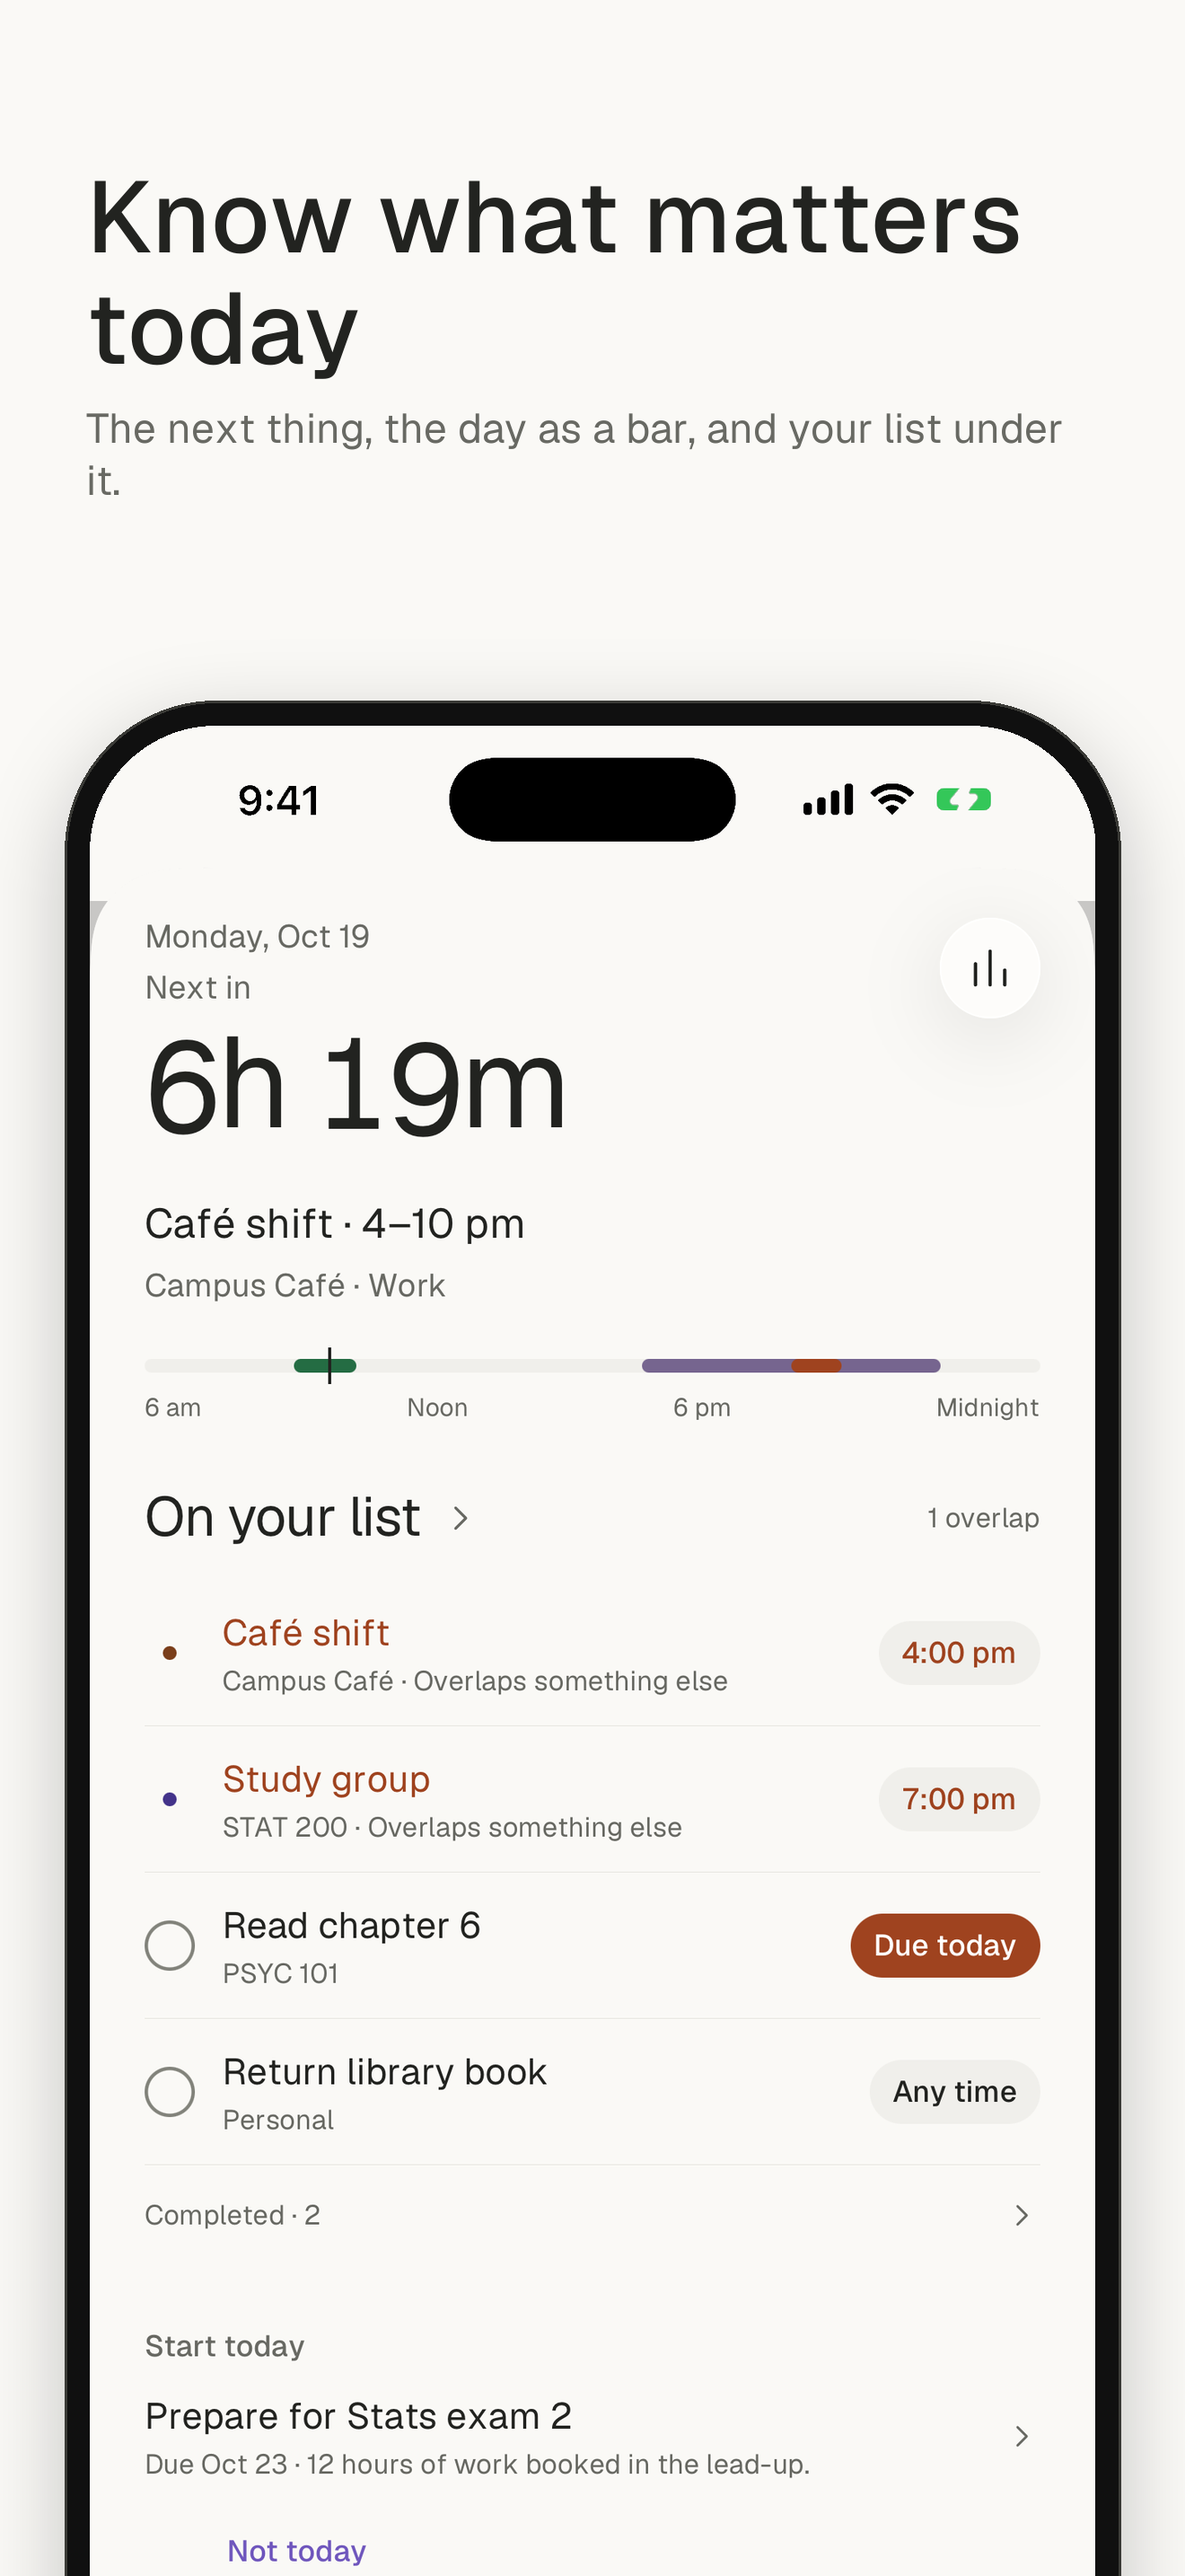
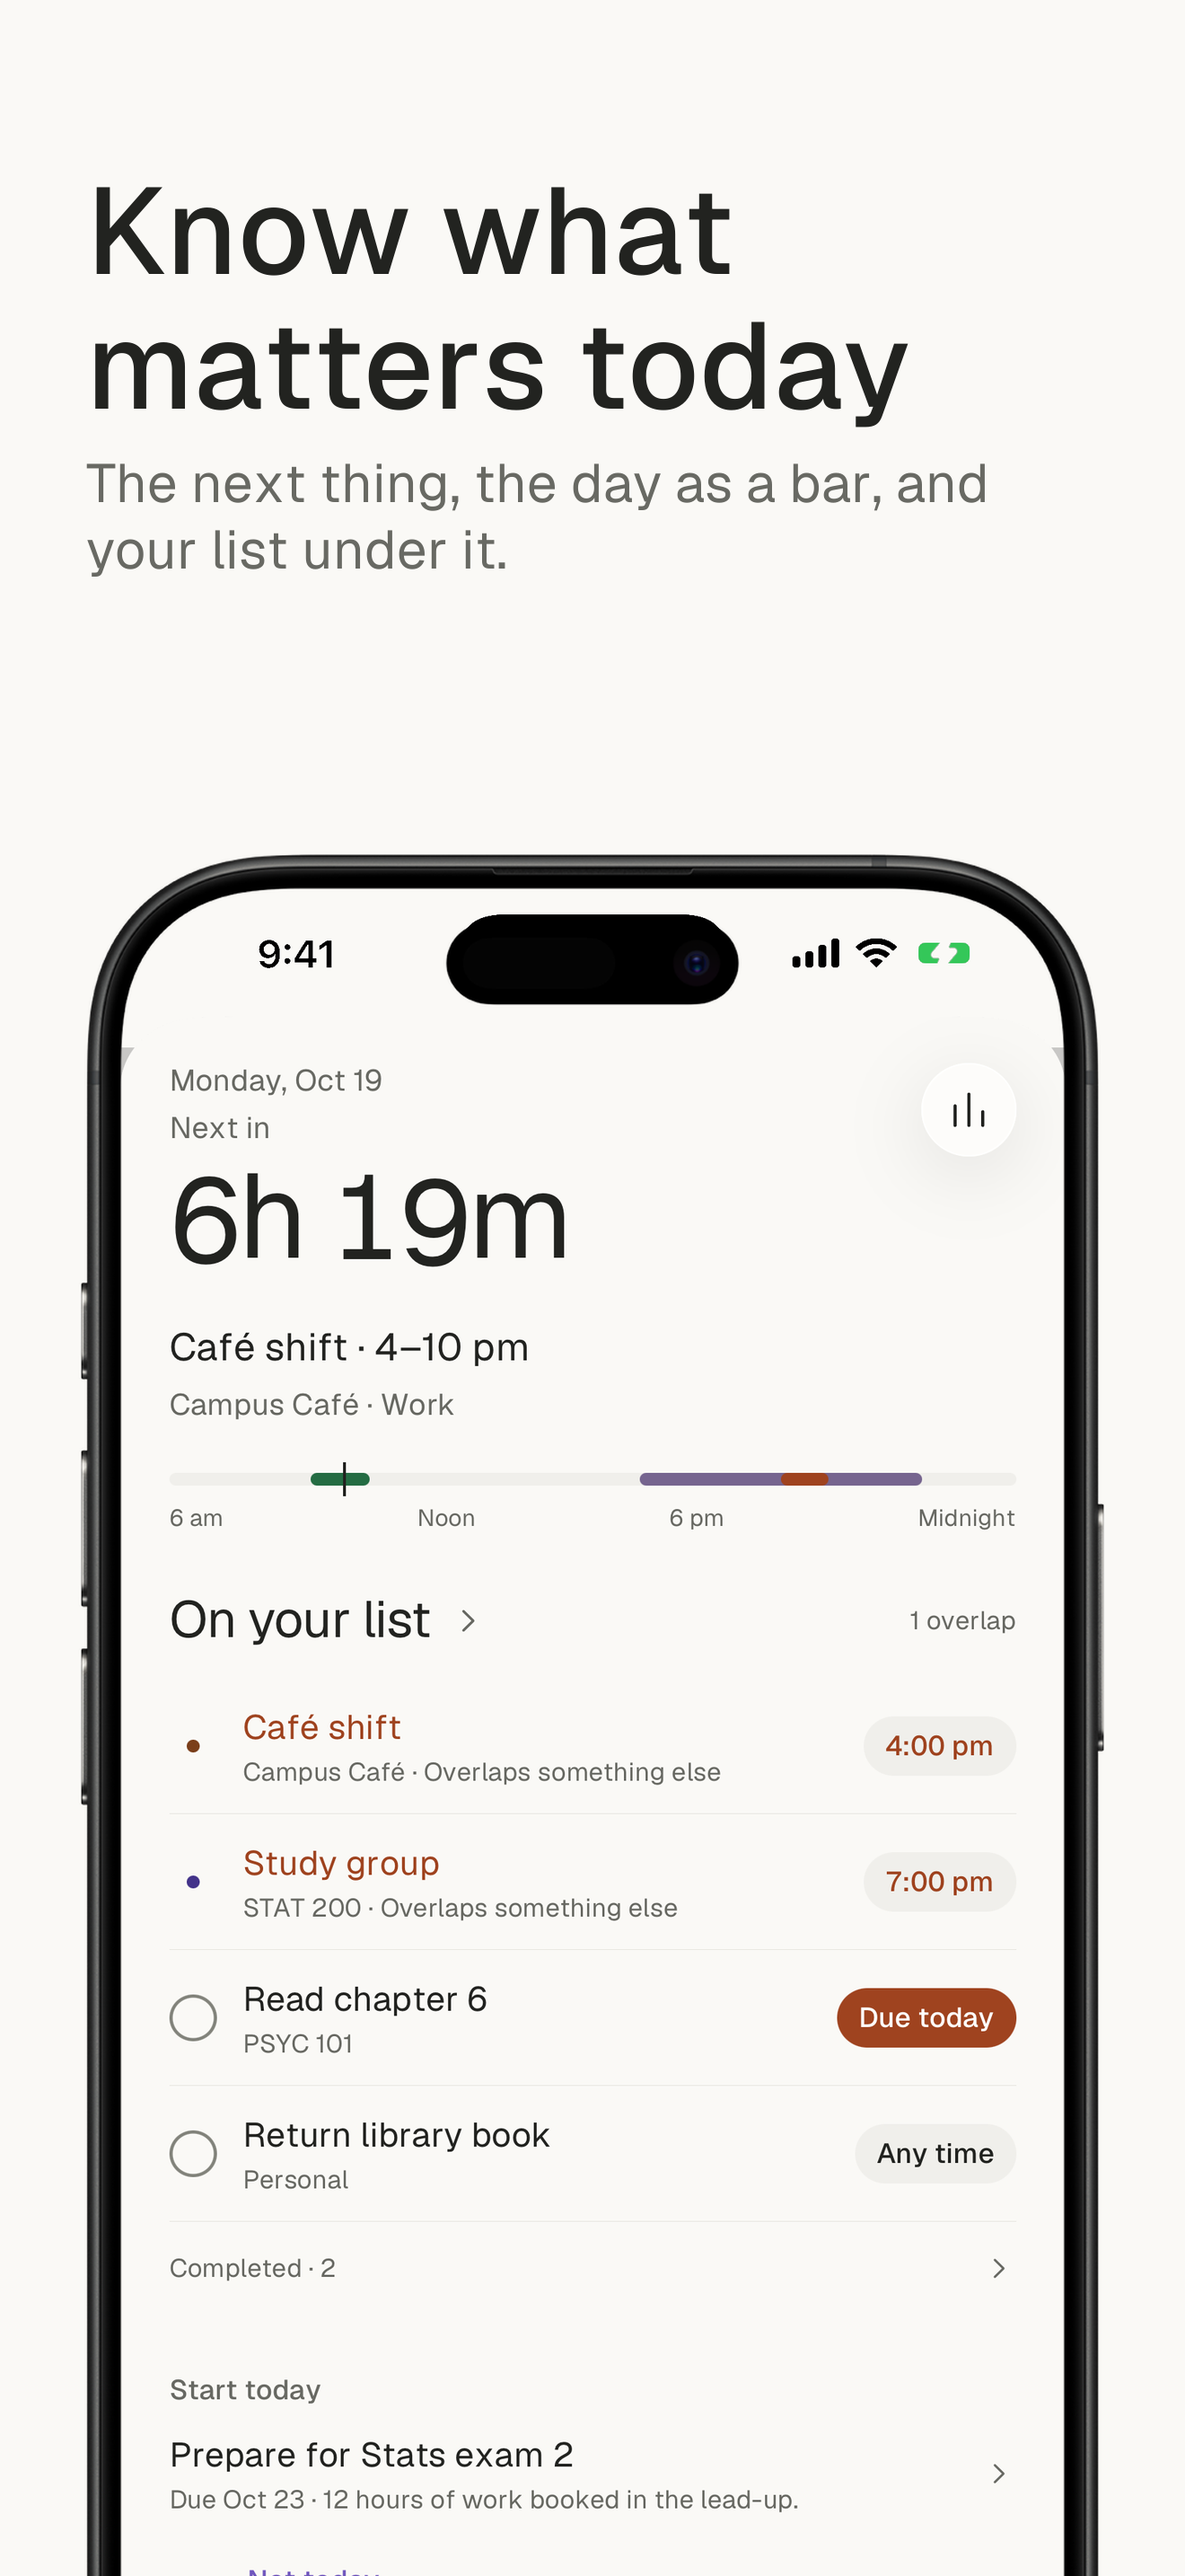
Refactor code structure for improved readability and maintainability

Changed region(s): [[0.0311, 0.2483, 0.9629, 1.0], [0.0621, 0.0621, 0.9008, 0.2172], [0.5591, 0.5275, 0.8076, 0.5896]]

diff --git a/design/render-screenshots.py b/design/render-screenshots.py
@@ -4,7 +4,7 @@
 Input: design/screenshots/raw/<name>.png, 1320 x 2868 captures from the iPhone 17 Pro Max
 simulator (dev build, light mode, 9:41 status bar; see docs/launch-guide.md, part 2).
 Output: design/screenshots/<nn>-<name>.png at 1320 x 2868, no alpha, ready for the
-6.9-inch slot. Caption in Geist Medium on paper, ink text, one device per image bleeding off
+6.9-inch slot. Caption in Geist Medium on paper, ink text, the site's iPhone frame bleeding off
 the bottom edge, as the best-selling planners do (Things, Structured, Opal).
 
     python3 design/render-screenshots.py                 # all, default layout
@@ -45,39 +45,39 @@ class Layout:
     bg: tuple[int, int, int]
     ink: tuple[int, int, int]
     secondary: tuple[int, int, int]
-    title_size: int = 112
-    title_lead: int = 124
+    title_size: int = 136
+    title_lead: int = 150
     title_weight: str = "Medium"
-    sub_size: int = 46
-    sub_lead: int = 58
+    sub_size: int = 60
+    sub_lead: int = 74
     margin: int = 96
     title_top: int = 168
-    device_top: int = 780  # fixed so the row lines up in the store
-    screen_w: int = 1120  # the phone bleeds off the bottom
+    device_top: int = 930  # fixed so the row lines up in the store
+    screen_w: int = 1176  # outer width of the phone; it bleeds off the bottom
     bezel: int = 28
     radius: int = 140
     shadow: int = 44
-    frame: bool = False  # True draws the site's photographic iPhone frame instead of the flat bezel
+    frame: bool = True  # the site's photographic iPhone frame; False draws a flat bezel instead
 
 
 LAYOUTS = {
     "left": Layout("left", "left", PAPER, INK, SECONDARY),
-    "center": Layout("center", "center", PAPER, INK, SECONDARY, title_size=120, title_lead=132),
-    "ink": Layout("ink", "center", INK, PAPER, DARK_SECONDARY, title_size=120, title_lead=132),
+    "center": Layout("center", "center", PAPER, INK, SECONDARY),
+    "ink": Layout("ink", "center", INK, PAPER, DARK_SECONDARY),
     "regular": Layout("regular", "left", PAPER, INK, SECONDARY, title_weight="Regular"),
-    "frame": Layout("frame", "left", PAPER, INK, SECONDARY, frame=True, screen_w=1176),
+    "bezel": Layout("bezel", "left", PAPER, INK, SECONDARY, frame=False, screen_w=1120),
 }
 
-# Order matters: the first three show in search results. Titles fit two lines at 112px.
+# Order matters: the first three show in search results. Titles fit two lines at 136px.
 SHOTS: list[tuple[str, str, str]] = [
-    ("school", "A semester set up in two minutes", "Drop in a syllabus. Semli reads every exam and due date."),
-    ("review-update", "Screenshot your shifts", "New, moved, and dropped shifts, shown before anything is saved."),
+    ("school", "A semester in two minutes", "Drop in a syllabus. Semli reads every exam and due date."),
+    ("review-update", "Screenshot your shifts", "New, moved, and dropped shifts, before anything is saved."),
     ("today-mon", "Know what matters today", "The next thing, the day as a bar, and your list under it."),
-    ("plan", "School, work, and life in one week", "Green is done, red is an overlap, a ring is an exam."),
-    ("review", "Nothing is saved until you confirm", "Missing a time? Add it or skip it. Undo is one tap away."),
-    ("paywall", "The planner stays free", "Calendar, to-dos, reminders, overlap warnings. Plus adds unlimited imports and Canvas sync."),
+    ("plan", "School and work in one week", "Green is done, red is an overlap, a ring is an exam."),
+    ("review", "Nothing saves until you say so", "Missing a time? Add it or skip it. Undo is one tap away."),
+    ("paywall", "The planner stays free", "Calendar, to-dos, and reminders stay free. Plus adds unlimited imports."),
     ("today-mon-hours", "Hour by hour", "Shifts, classes, and overlaps in red, on one timeline."),
-    ("add", "Type it or drop in a screenshot", "Semli reads work schedules, syllabi, and messages from class."),
+    ("add", "Type it or screenshot it", "Semli reads work schedules, syllabi, and messages from class."),
     ("item", "Every detail one tap away", "Time, course, reminder, and the overlap, with a way out."),
 ]
 
@@ -180,8 +180,8 @@ def fix_grey_band(capture: Image.Image) -> Image.Image:
 
 def render(name: str, title: str, sub: str, index: int, L: Layout, out_dir: Path, wordmark: bool) -> Path:
     capture = Image.open(RAW / f"{name}.png")
-    if capture.size != (W, H):
-        raise SystemExit(f"{name}.png is {capture.size}, expected {W}x{H} (iPhone 17 Pro Max simulator)")
+    if capture.size != (1320, 2868):
+        raise SystemExit(f"{name}.png is {capture.size}, expected 1320x2868 (iPhone 17 Pro Max simulator)")
     if name == "paywall":
         capture = fix_paywall_band(capture)
     if name == "today-mon":
@@ -223,8 +223,12 @@ def main() -> None:
     ap.add_argument("names", nargs="*", help="raw capture names to render (default: all)")
     ap.add_argument("--layout", choices=sorted(LAYOUTS), default="left")
     ap.add_argument("--out", type=Path, default=OUT)
+    ap.add_argument("--canvas", help="WIDTHxHEIGHT of the output, default 1320x2868 (6.9-inch); e.g. 2007x2853 for the foldable's inner display")
     args = ap.parse_args()
     L = LAYOUTS[args.layout]
+    if args.canvas:
+        global W, H
+        W, H = (int(v) for v in args.canvas.lower().split("x"))
     for i, (name, title, sub) in enumerate(SHOTS, start=1):
         if args.names and name not in args.names:
             continue

diff --git a/docs/launch-guide.md b/docs/launch-guide.md
@@ -87,8 +87,31 @@ Sanity check: a sandbox purchase in the dev build shows up in RevenueCat → Cus
 - 3 to 10 images; the **first three** show in search results, so they carry the message.
 - PNG or JPEG, no alpha, no status-bar fakery (Apple allows real status bars). Device frames and captions are allowed and expected.
 
-### 2.2 The six screenshots
-Superseded Oct 20, 2026 by [app-store-connect.md](app-store-connect.md), which has every App Store Connect field, the six captions, and the privacy labels as they stand with accounts and Canvas. Finished images are in `design/screenshots/out/`; `design/screenshots/compose.py` rebuilds them from raw 1320 × 2868 simulator captures (light mode, 9:41, `dev-clock.txt` set to `09:41`, `dev-command.txt` set to `sample`, `review` or `item`).
+### 2.2 The screenshots, in order
+Raw capture name, caption on the image (sentence case, Geist Medium 136px), and the 60px subline. The first three carry the message in search results.
+
+| # | Raw | Caption | Subline |
+|---|---|---|---|
+| 1 | `school` | A semester in two minutes | Drop in a syllabus. Semli reads every exam and due date. |
+| 2 | `review-update` | Screenshot your shifts | New, moved, and dropped shifts, before anything is saved. |
+| 3 | `today-mon` | Know what matters today | The next thing, the day as a bar, and your list under it. |
+| 4 | `plan` | School and work in one week | Green is done, red is an overlap, a ring is an exam. |
+| 5 | `review` | Nothing saves until you say so | Missing a time? Add it or skip it. Undo is one tap away. |
+| 6 | `paywall` | The planner stays free | Calendar, to-dos, and reminders stay free. Plus adds unlimited imports. |
+| 7 | `today-mon-hours` | Hour by hour | Shifts, classes, and overlaps in red, on one timeline. |
+| 8 | `add` | Type it or screenshot it | Semli reads work schedules, syllabi, and messages from class. |
+| 9 | `item` | Every detail one tap away | Time, course, reminder, and the overlap, with a way out. Optional; Apple allows ten. |
+
+The captions live in `design/render-screenshots.py` (`SHOTS`). Listing text: [app-store-listing.md](app-store-listing.md) and [app-store-connect.md](app-store-connect.md). An earlier six-image set in `design/screenshots/out/` (from `design/screenshots/compose.py`, 92px Light captions, whole phone visible) is superseded by this one.
+
+### 2.3 How to produce them
+1. On the booted **iPhone 17 Pro Max** simulator with the dev client and Metro running, write the dev files into the app's Documents folder (`C=$(xcrun simctl get_app_container booted app.semli.mobile data)`): `dev-clock.txt` holds `09:41`, or `2026-10-19 09:41` to also fix the day (Monday has the overlap, the due reading and the lecture); `dev-command.txt` holds `sample`, `hours`, `list`, `review`, `review-update`, `item`, `plus` or `moment`. Then relaunch: `xcrun simctl terminate booted app.semli.mobile; xcrun simctl openurl booted "semli://expo-development-client/?url=http%3A%2F%2Flocalhost%3A8081"` and wait 16–20 s.
+2. Light mode, 9:41 status bar: `xcrun simctl status_bar booted override --time 9:41 --batteryLevel 100 --cellularBars 4`.
+3. Open a screen by deep link (`xcrun simctl openurl booted semli://plan`, `semli://school`, `semli://add`, `semli://paywall`) and capture with `xcrun simctl io booted screenshot design/screenshots/raw/<name>.png` (1320 × 2868). Look at every capture: the dev build often restores the previous screen on relaunch, a deep link right after launch can leave a grey overlay on the status bar, and switching the Today view on launch leaves a ghost of the old view (relaunch once more).
+4. Compose: `python3 design/render-screenshots.py` (needs Pillow) writes `design/screenshots/NN-<name>.png` at 1320 × 2868: caption on paper, the site's iPhone frame (`apps/web/public/phones/`) bleeding off the bottom edge, the layout Things, Structured and Opal use. `--layout bezel|center|ink|regular` are the alternatives that were considered; `--canvas 2007x2853 --out design/screenshots/2007x2853 --layout center` makes the foldable inner-display set. The 6.1"/6.3" slot (1206 × 2622) takes a plain downscale, kept in `design/screenshots/6.3-inch/`.
+5. Upload in order to the 6.9-inch slot; Apple scales it to every other iPhone unless a size-specific set is uploaded. Localize nothing for now (US English only).
+
+Known bug (Oct 20, 2026): the paywall cover and You → Semli Plus lay out below the status bar, leaving a paper band with invisible white status text. The script paints that band dark for the store image; the screen itself still needs the fix.
 
 ---
 
